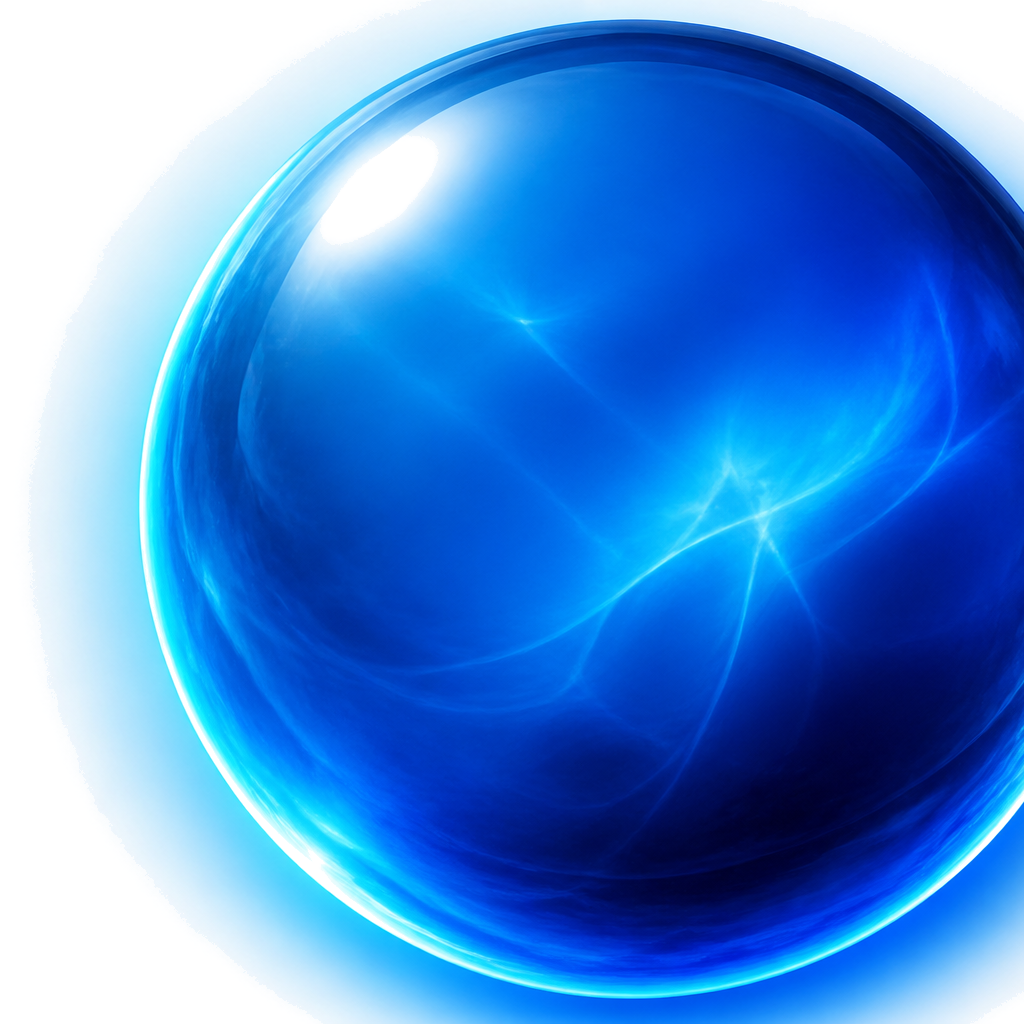
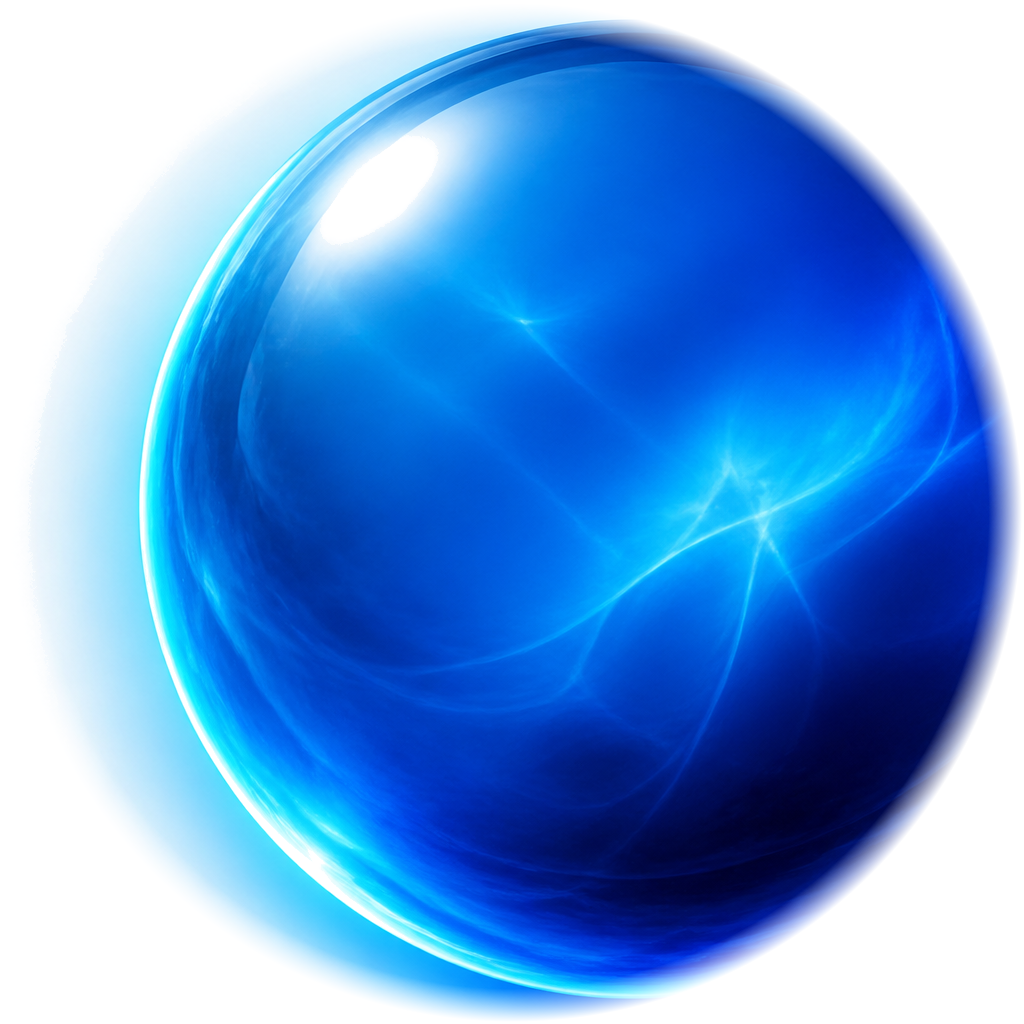
Clip the sphere to a circle so no square edge shows

Changed region(s): [[0.1875, 0.0, 1.0, 1.0]]

diff --git a/public/score-ask.html b/public/score-ask.html
@@ -53,9 +53,10 @@
     transition:transform .15s ease, filter .25s ease;
     filter:drop-shadow(0 0 34px rgba(90,175,245,.55));
   }
+  /* Clipped to a circle so no square edge of the render ever shows. */
   #orb .sphere{
-    position:absolute; inset:-9%; width:118%; height:118%;
-    object-fit:contain; pointer-events:none; user-select:none;
+    position:absolute; inset:-6%; width:112%; height:112%;
+    object-fit:contain; border-radius:50%; pointer-events:none; user-select:none;
   }
   #orb > *:not(.sphere){ position:relative; z-index:1 }
   #orb:active{ transform:scale(.985) }
